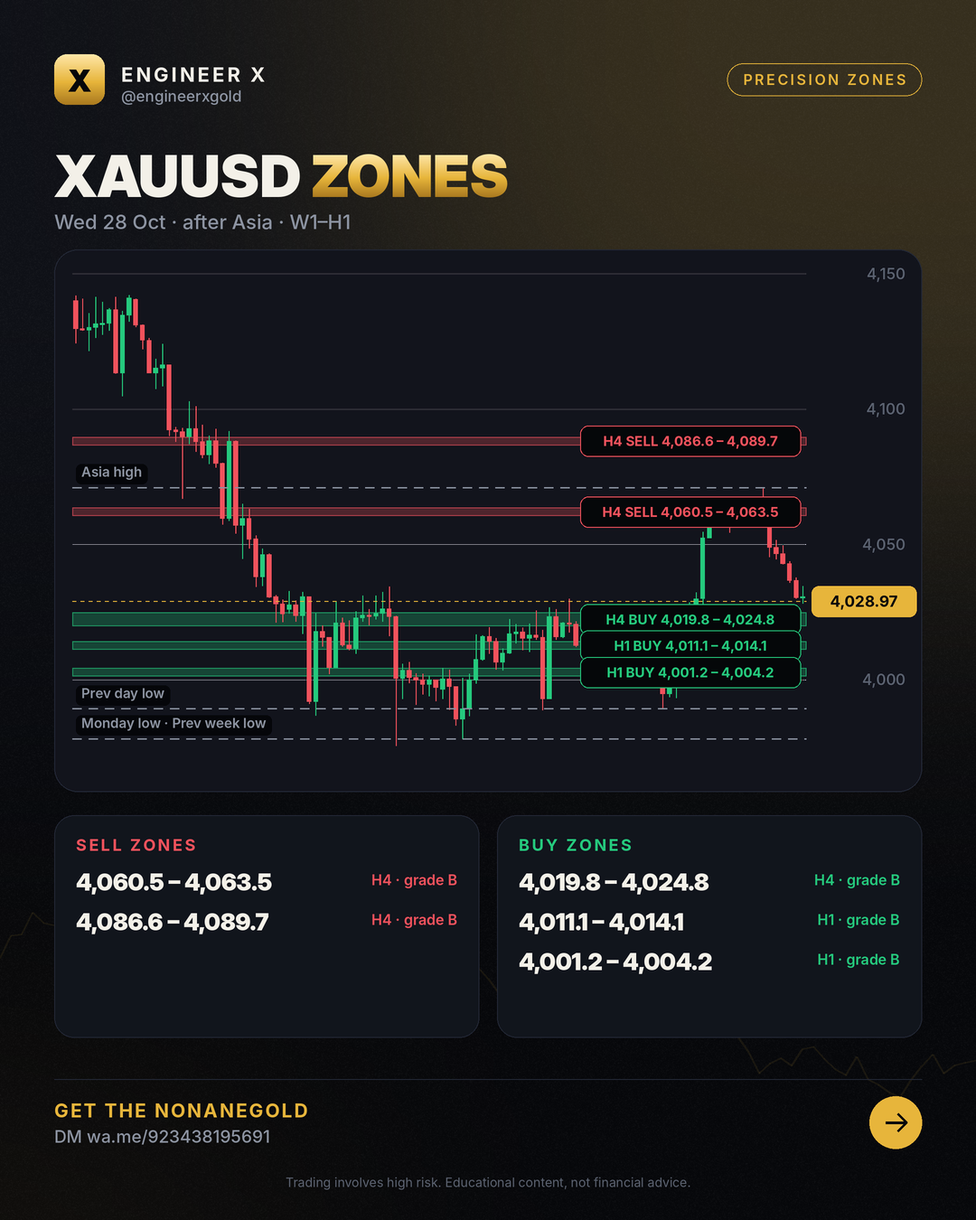
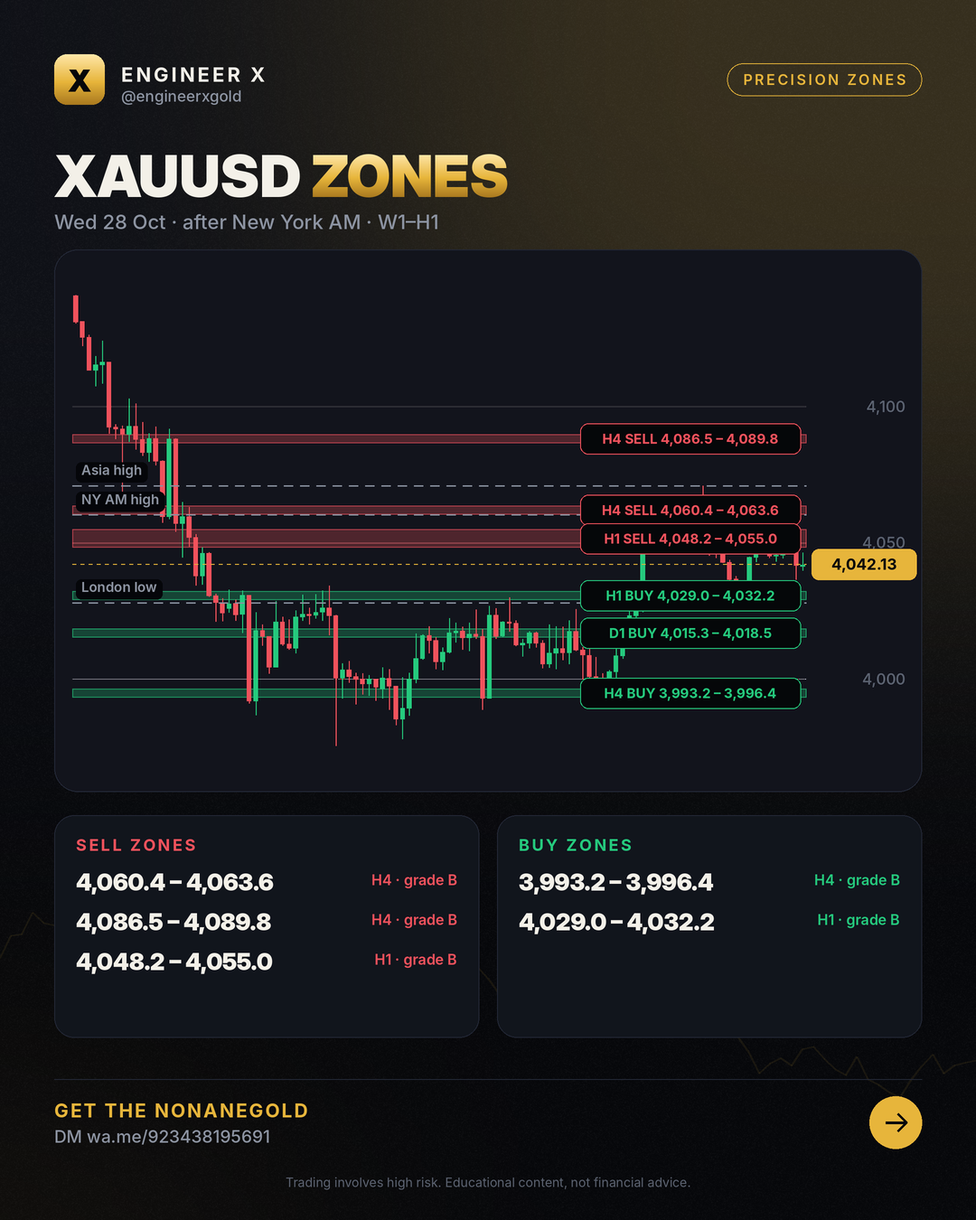
zones 2026-10-28 Wed 28 Oct · after New York AM · W1–H1

diff --git a/zones/index.html b/zones/index.html
@@ -4,7 +4,7 @@
 <meta charset="utf-8">
 <meta name="viewport" content="width=device-width,initial-scale=1">
 <title>XAUUSD Zones Today – Buy &amp; Sell Zones (H4, H1) | Engineer X</title>
-<meta name="description" content="XAUUSD buy and sell zones for 2026-10-28: tested W1, D1, H4 and H1 zones with invalidation levels, updated after the Asian, London and New York sessions. Price 4,028.97.">
+<meta name="description" content="XAUUSD buy and sell zones for 2026-10-28: tested W1, D1, H4 and H1 zones with invalidation levels, updated after the Asian, London and New York sessions. Price 4,042.13.">
 <meta name="robots" content="index,follow,max-image-preview:large,max-snippet:-1,max-video-preview:-1">
 <meta name="author" content="Engr. M Ahmad Mehmood">
 <link rel="canonical" href="https://engineerxgold.github.io/zones/">
@@ -12,7 +12,7 @@
 <link rel="apple-touch-icon" href="../img/logo.png">
 <meta property="og:site_name" content="Engineer X">
 <meta property="og:title" content="XAUUSD Zones Today – Buy &amp; Sell Zones (H4, H1) | Engineer X">
-<meta property="og:description" content="XAUUSD buy and sell zones for 2026-10-28: tested W1, D1, H4 and H1 zones with invalidation levels, updated after the Asian, London and New York sessions. Price 4,028.97.">
+<meta property="og:description" content="XAUUSD buy and sell zones for 2026-10-28: tested W1, D1, H4 and H1 zones with invalidation levels, updated after the Asian, London and New York sessions. Price 4,042.13.">
 <meta property="og:type" content="website">
 <meta property="og:url" content="https://engineerxgold.github.io/zones/">
 <meta property="og:image" content="https://engineerxgold.github.io/zones/img/2026-10-28.png">
@@ -22,7 +22,7 @@
 <meta property="og:locale" content="en_US">
 <meta name="twitter:card" content="summary_large_image">
 <meta name="twitter:title" content="XAUUSD Zones Today – Buy &amp; Sell Zones (H4, H1) | Engineer X">
-<meta name="twitter:description" content="XAUUSD buy and sell zones for 2026-10-28: tested W1, D1, H4 and H1 zones with invalidation levels, updated after the Asian, London and New York sessions. Price 4,028.97.">
+<meta name="twitter:description" content="XAUUSD buy and sell zones for 2026-10-28: tested W1, D1, H4 and H1 zones with invalidation levels, updated after the Asian, London and New York sessions. Price 4,042.13.">
 <meta name="twitter:image" content="https://engineerxgold.github.io/zones/img/2026-10-28.png">
 <meta name="twitter:image:alt" content="XAUUSD Zones Today – Buy &amp; Sell Zones (H4, H1) | Engineer X">
 
@@ -101,7 +101,7 @@ footer .fl a{color:var(--muted);margin-right:16px}
 <div class="wrap">
 <nav><a class="logo" href="../"><b>X</b>Engineer X</a>
 <div class="links"><a href="../zones/">Daily Zones</a><a href="../blog/">Learn</a><a href="../ea/">Gold EA</a><a href="../about/">About</a><a class="cta" href="https://wa.me/923438195691">Get the EA</a></div></nav>
-<section class="hero"><span class="chip">Updated Wed 28 Oct · after Asia · W1–H1</span><h1>XAUUSD <span class="gold">precision zones</span></h1><p>XAUUSD buy and sell zones for 2026-10-28: tested W1, D1, H4 and H1 zones with invalidation levels, updated after the Asian, London and New York sessions. Price 4,028.97.</p></section><img src="img/2026-10-28.png" alt="Latest XAUUSD zone map" width="1080" height="1350"><section><h2>Current zones</h2><div style="overflow-x:auto"><table style="width:100%;border-collapse:collapse;font-size:15px"><tr><th align=left>Zone</th><th align=left>Price band</th><th>Grade</th><th align=left>Invalid</th><th align=left>Why</th></tr><tr><td>H4 sell</td><td><b>4,060.49 – 4,063.53</b></td><td>B</td><td>above 4,064.55</td><td>MSNR resistance level (fresh): 4H A 4062.01. Wrong if price trades above 4064.55.</td></tr><tr><td>H4 sell</td><td><b>4,086.62 – 4,089.66</b></td><td>B</td><td>above 4,090.68</td><td>MSNR resistance level (fresh): 4H A 4088.14. Wrong if price trades above 4090.68.</td></tr><tr><td>H1 buy</td><td><b>4,011.05 – 4,014.09</b></td><td>B</td><td>below 4,010.03</td><td>MSNR support levels (fresh): 1H GAP 4012.57, 30m GAP 4012.57. Wrong if price trades below 4010.03.</td></tr><tr><td>H1 buy</td><td><b>4,001.20 – 4,004.24</b></td><td>B</td><td>below 4,000.18</td><td>MSNR support level (fresh): 1H GAP 4002.72. Wrong if price trades below 4000.18.</td></tr><tr><td>H4 buy</td><td><b>4,019.84 – 4,024.76</b></td><td>B</td><td>below 4,018.82</td><td>MSNR support levels (fresh): 4H GAP 4023.24, 1H GAP 4023.24, 30m V 4021.36, 15m V 4021.36. Wrong if price trades below 4018.82.</td></tr></table></div></section><section><h2>Honest scorecard</h2><div class="grid"><div class="card"><div class="n">176</div><p>zones published (30 days)</p></div><div class="card"><div class="n">92</div><p>held (moved 1 hourly ATR away)</p></div><div class="card"><div class="n">12</div><p>broke (traded beyond the invalidation)</p></div><div class="card"><div class="n">88%</div><p>hold rate of decided zones</p></div></div></section><div class="ctabox"><h3>🤖 Trade the zones with the NonaneGold</h3><p>Free signals group access + setup help Message us and we will help you set it up.</p><div class="btns"><a class="btn gold" href="https://wa.me/923438195691">Get the EA on Telegram</a><a class="btn ghost" href="../ea/">About the EA</a></div></div><section><h2>Archive</h2><div class="grid posts"><a class="card" href="2026-10-28/"><span class="date">2026-10-28</span><h3>XAUUSD zones 2026-10-28</h3></a><a class="card" href="2026-10-27/"><span class="date">2026-10-27</span><h3>XAUUSD zones 2026-10-27</h3></a><a class="card" href="2026-10-26/"><span class="date">2026-10-26</span><h3>XAUUSD zones 2026-10-26</h3></a><a class="card" href="2026-10-23/"><span class="date">2026-10-23</span><h3>XAUUSD zones 2026-10-23</h3></a><a class="card" href="2026-10-22/"><span class="date">2026-10-22</span><h3>XAUUSD zones 2026-10-22</h3></a><a class="card" href="2026-10-21/"><span class="date">2026-10-21</span><h3>XAUUSD zones 2026-10-21</h3></a><a class="card" href="2026-10-20/"><span class="date">2026-10-20</span><h3>XAUUSD zones 2026-10-20</h3></a><a class="card" href="2026-10-19/"><span class="date">2026-10-19</span><h3>XAUUSD zones 2026-10-19</h3></a><a class="card" href="2026-10-16/"><span class="date">2026-10-16</span><h3>XAUUSD zones 2026-10-16</h3></a><a class="card" href="2026-10-15/"><span class="date">2026-10-15</span><h3>XAUUSD zones 2026-10-15</h3></a><a class="card" href="2026-10-14/"><span class="date">2026-10-14</span><h3>XAUUSD zones 2026-10-14</h3></a><a class="card" href="2026-10-13/"><span class="date">2026-10-13</span><h3>XAUUSD zones 2026-10-13</h3></a></div></section>
+<section class="hero"><span class="chip">Updated Wed 28 Oct · after New York AM · W1–H1</span><h1>XAUUSD <span class="gold">precision zones</span></h1><p>XAUUSD buy and sell zones for 2026-10-28: tested W1, D1, H4 and H1 zones with invalidation levels, updated after the Asian, London and New York sessions. Price 4,042.13.</p></section><img src="img/2026-10-28.png" alt="Latest XAUUSD zone map" width="1080" height="1350"><section><h2>Current zones</h2><div style="overflow-x:auto"><table style="width:100%;border-collapse:collapse;font-size:15px"><tr><th align=left>Zone</th><th align=left>Price band</th><th>Grade</th><th align=left>Invalid</th><th align=left>Why</th></tr><tr><td>H4 sell</td><td><b>4,060.40 – 4,063.62</b></td><td>B</td><td>above 4,064.69</td><td>MSNR resistance levels (fresh): 4H A 4062.01, 1H GAP 4062.01, 30m A 4062.01. Wrong if price trades above 4064.69.</td></tr><tr><td>H4 sell</td><td><b>4,086.53 – 4,089.75</b></td><td>B</td><td>above 4,090.82</td><td>MSNR resistance level (fresh): 4H A 4088.14. Wrong if price trades above 4090.82.</td></tr><tr><td>H1 sell</td><td><b>4,048.23 – 4,054.97</b></td><td>B</td><td>above 4,056.04</td><td>MSNR resistance levels (fresh): 1H GAP 4049.84, 1H A 4053.36, 30m GAP 4049.84, 30m GAP 4051.82, 30m GAP 4053.36, 15m GAP 4049.84. Wrong if price trades above 40</td></tr><tr><td>H1 buy</td><td><b>4,029.03 – 4,032.25</b></td><td>B</td><td>below 4,027.96</td><td>MSNR support levels (fresh): 1H GAP 4030.64, 30m V 4030.64, 15m V 4030.64. Wrong if price trades below 4027.96.</td></tr><tr><td>H4 buy</td><td><b>3,993.21 – 3,996.43</b></td><td>B</td><td>below 3,992.14</td><td>MSNR support level (fresh): 4H V 3994.82. Wrong if price trades below 3992.14.</td></tr><tr><td>D1 buy</td><td><b>4,015.30 – 4,018.52</b></td><td>B</td><td>below 4,014.23</td><td>MSNR support level (fresh): D GAP 4016.91. Wrong if price trades below 4014.23.</td></tr></table></div></section><section><h2>Honest scorecard</h2><div class="grid"><div class="card"><div class="n">182</div><p>zones published (30 days)</p></div><div class="card"><div class="n">92</div><p>held (moved 1 hourly ATR away)</p></div><div class="card"><div class="n">13</div><p>broke (traded beyond the invalidation)</p></div><div class="card"><div class="n">88%</div><p>hold rate of decided zones</p></div></div></section><div class="ctabox"><h3>🤖 Trade the zones with the NonaneGold</h3><p>Free signals group access + setup help Message us and we will help you set it up.</p><div class="btns"><a class="btn gold" href="https://wa.me/923438195691">Get the EA on Telegram</a><a class="btn ghost" href="../ea/">About the EA</a></div></div><section><h2>Archive</h2><div class="grid posts"><a class="card" href="2026-10-28/"><span class="date">2026-10-28</span><h3>XAUUSD zones 2026-10-28</h3></a><a class="card" href="2026-10-27/"><span class="date">2026-10-27</span><h3>XAUUSD zones 2026-10-27</h3></a><a class="card" href="2026-10-26/"><span class="date">2026-10-26</span><h3>XAUUSD zones 2026-10-26</h3></a><a class="card" href="2026-10-23/"><span class="date">2026-10-23</span><h3>XAUUSD zones 2026-10-23</h3></a><a class="card" href="2026-10-22/"><span class="date">2026-10-22</span><h3>XAUUSD zones 2026-10-22</h3></a><a class="card" href="2026-10-21/"><span class="date">2026-10-21</span><h3>XAUUSD zones 2026-10-21</h3></a><a class="card" href="2026-10-20/"><span class="date">2026-10-20</span><h3>XAUUSD zones 2026-10-20</h3></a><a class="card" href="2026-10-19/"><span class="date">2026-10-19</span><h3>XAUUSD zones 2026-10-19</h3></a><a class="card" href="2026-10-16/"><span class="date">2026-10-16</span><h3>XAUUSD zones 2026-10-16</h3></a><a class="card" href="2026-10-15/"><span class="date">2026-10-15</span><h3>XAUUSD zones 2026-10-15</h3></a><a class="card" href="2026-10-14/"><span class="date">2026-10-14</span><h3>XAUUSD zones 2026-10-14</h3></a><a class="card" href="2026-10-13/"><span class="date">2026-10-13</span><h3>XAUUSD zones 2026-10-13</h3></a></div></section>
 <footer>
 <div class="warn"><b>Risk warning:</b> Trading gold, forex and CFDs carries a high risk of losing money and is not suitable for everyone. Past results do not guarantee future results. Everything on this site is educational and not financial advice. We are an introducing partner of our broker and may earn a commission on accounts opened through our link.</div>
 <p class="fl" style="margin-top:18px"><a href="../about/">About &amp; methodology</a><a href="../privacy.html">Privacy</a><a href="../terms.html">Terms &amp; risk disclosure</a><a href="../feed.xml">RSS</a><a href="https://t.me/engineerxgold">Telegram</a></p>

diff --git a/zones/2026-10-28/index.html b/zones/2026-10-28/index.html
@@ -4,7 +4,7 @@
 <meta charset="utf-8">
 <meta name="viewport" content="width=device-width,initial-scale=1">
 <title>Gold Support Resistance – 28 Oct 2026 (W1–H1)</title>
-<meta name="description" content="XAUUSD buy and sell zones for 2026-10-28: tested W1, D1, H4 and H1 zones with invalidation levels, updated after the Asian, London and New York sessions. Price 4,028.97.">
+<meta name="description" content="XAUUSD buy and sell zones for 2026-10-28: tested W1, D1, H4 and H1 zones with invalidation levels, updated after the Asian, London and New York sessions. Price 4,042.13.">
 <meta name="robots" content="index,follow,max-image-preview:large,max-snippet:-1,max-video-preview:-1">
 <meta name="author" content="Engr. M Ahmad Mehmood">
 <link rel="canonical" href="https://engineerxgold.github.io/zones/2026-10-28/">
@@ -12,7 +12,7 @@
 <link rel="apple-touch-icon" href="../../img/logo.png">
 <meta property="og:site_name" content="Engineer X">
 <meta property="og:title" content="Gold Support Resistance – 28 Oct 2026 (W1–H1)">
-<meta property="og:description" content="XAUUSD buy and sell zones for 2026-10-28: tested W1, D1, H4 and H1 zones with invalidation levels, updated after the Asian, London and New York sessions. Price 4,028.97.">
+<meta property="og:description" content="XAUUSD buy and sell zones for 2026-10-28: tested W1, D1, H4 and H1 zones with invalidation levels, updated after the Asian, London and New York sessions. Price 4,042.13.">
 <meta property="og:type" content="article">
 <meta property="og:url" content="https://engineerxgold.github.io/zones/2026-10-28/">
 <meta property="og:image" content="https://engineerxgold.github.io/zones/img/2026-10-28.png">
@@ -22,7 +22,7 @@
 <meta property="og:locale" content="en_US">
 <meta name="twitter:card" content="summary_large_image">
 <meta name="twitter:title" content="Gold Support Resistance – 28 Oct 2026 (W1–H1)">
-<meta name="twitter:description" content="XAUUSD buy and sell zones for 2026-10-28: tested W1, D1, H4 and H1 zones with invalidation levels, updated after the Asian, London and New York sessions. Price 4,028.97.">
+<meta name="twitter:description" content="XAUUSD buy and sell zones for 2026-10-28: tested W1, D1, H4 and H1 zones with invalidation levels, updated after the Asian, London and New York sessions. Price 4,042.13.">
 <meta name="twitter:image" content="https://engineerxgold.github.io/zones/img/2026-10-28.png">
 <meta name="twitter:image:alt" content="Gold Support Resistance – 28 Oct 2026 (W1–H1)">
 
@@ -32,7 +32,7 @@
 <link rel="preconnect" href="https://fonts.googleapis.com">
 <link rel="preconnect" href="https://fonts.gstatic.com" crossorigin>
 <link href="https://fonts.googleapis.com/css2?family=Inter:wght@400;500;600;800;900&display=swap" rel="stylesheet">
-<script type="application/ld+json">{"@context": "https://schema.org", "@type": "Organization", "@id": "https://engineerxgold.github.io/#organization", "name": "Engineer X", "url": "https://engineerxgold.github.io/", "logo": {"@type": "ImageObject", "url": "https://engineerxgold.github.io/img/logo.png", "width": 512, "height": 512}, "sameAs": ["https://t.me/engineerxgold"]}</script><script type="application/ld+json">{"@context": "https://schema.org", "@type": "Article", "headline": "Gold Support Resistance – 28 Oct 2026 (W1–H1)", "datePublished": "2026-10-28T08:00:00+05:00", "dateModified": "2026-10-28T12:04:50+05:00", "author": {"@type": "Person", "@id": "https://engineerxgold.github.io/about/#author", "name": "Engr. M Ahmad Mehmood", "url": "https://engineerxgold.github.io/about/", "jobTitle": "MQL5 Expert Advisor developer and gold market analyst", "worksFor": {"@id": "https://engineerxgold.github.io/#organization"}}, "publisher": {"@id": "https://engineerxgold.github.io/#organization"}, "image": "https://engineerxgold.github.io/zones/img/2026-10-28.png", "mainEntityOfPage": "https://engineerxgold.github.io/zones/2026-10-28/"}</script>
+<script type="application/ld+json">{"@context": "https://schema.org", "@type": "Organization", "@id": "https://engineerxgold.github.io/#organization", "name": "Engineer X", "url": "https://engineerxgold.github.io/", "logo": {"@type": "ImageObject", "url": "https://engineerxgold.github.io/img/logo.png", "width": 512, "height": 512}, "sameAs": ["https://t.me/engineerxgold"]}</script><script type="application/ld+json">{"@context": "https://schema.org", "@type": "Article", "headline": "Gold Support Resistance – 28 Oct 2026 (W1–H1)", "datePublished": "2026-10-28T08:00:00+05:00", "dateModified": "2026-10-28T21:04:32+05:00", "author": {"@type": "Person", "@id": "https://engineerxgold.github.io/about/#author", "name": "Engr. M Ahmad Mehmood", "url": "https://engineerxgold.github.io/about/", "jobTitle": "MQL5 Expert Advisor developer and gold market analyst", "worksFor": {"@id": "https://engineerxgold.github.io/#organization"}}, "publisher": {"@id": "https://engineerxgold.github.io/#organization"}, "image": "https://engineerxgold.github.io/zones/img/2026-10-28.png", "mainEntityOfPage": "https://engineerxgold.github.io/zones/2026-10-28/"}</script>
 
 <style>
 :root{--gold:#E7B53B;--gold-hi:#FFE7A8;--bg:#07080B;--bg2:#0E1016;--panel:#12151D;--line:#232836;--green:#25C97D;--red:#F0525C;--text:#F3F0E8;--muted:#8C93A1}
@@ -101,7 +101,7 @@ footer .fl a{color:var(--muted);margin-right:16px}
 <div class="wrap">
 <nav><a class="logo" href="../../"><b>X</b>Engineer X</a>
 <div class="links"><a href="../../zones/">Daily Zones</a><a href="../../blog/">Learn</a><a href="../../ea/">Gold EA</a><a href="../../about/">About</a><a class="cta" href="https://wa.me/923438195691">Get the EA</a></div></nav>
-<article><p class="crumbs"><a href="../../">Home</a> › <a href="../">Zones</a> › 2026-10-28</p><h1>Gold Support Resistance – 28 Oct 2026 (W1–H1)</h1><p class="byline">Wed 28 Oct · after Asia · W1–H1 · by Engr. M Ahmad Mehmood</p><img src="../img/2026-10-28.png" alt="XAUUSD zone map 2026-10-28" width="1080" height="1350" loading="eager"><h2>Zones</h2><div style="overflow-x:auto"><table style="width:100%;border-collapse:collapse;font-size:15px"><tr><th align=left>Zone</th><th align=left>Price band</th><th>Grade</th><th align=left>Invalid</th><th align=left>Why</th></tr><tr><td>H4 sell</td><td><b>4,060.49 – 4,063.53</b></td><td>B</td><td>above 4,064.55</td><td>MSNR resistance level (fresh): 4H A 4062.01. Wrong if price trades above 4064.55.</td></tr><tr><td>H4 sell</td><td><b>4,086.62 – 4,089.66</b></td><td>B</td><td>above 4,090.68</td><td>MSNR resistance level (fresh): 4H A 4088.14. Wrong if price trades above 4090.68.</td></tr><tr><td>H1 buy</td><td><b>4,011.05 – 4,014.09</b></td><td>B</td><td>below 4,010.03</td><td>MSNR support levels (fresh): 1H GAP 4012.57, 30m GAP 4012.57. Wrong if price trades below 4010.03.</td></tr><tr><td>H1 buy</td><td><b>4,001.20 – 4,004.24</b></td><td>B</td><td>below 4,000.18</td><td>MSNR support level (fresh): 1H GAP 4002.72. Wrong if price trades below 4000.18.</td></tr><tr><td>H4 buy</td><td><b>4,019.84 – 4,024.76</b></td><td>B</td><td>below 4,018.82</td><td>MSNR support levels (fresh): 4H GAP 4023.24, 1H GAP 4023.24, 30m V 4021.36, 15m V 4021.36. Wrong if price trades below 4018.82.</td></tr></table></div><h2>How to read this map</h2><p>Bands are where price is expected to react; they are not entries. Trading beyond the invalidation price ends the zone; each zone counts once (first touch). Highs and lows listed as liquidity are targets: on 10 years of gold price ran through them more often than through random levels.</p><div class="ctabox"><h3>🤖 Trade the zones with the NonaneGold</h3><p>Free signals group access + setup help Message us and we will help you set it up.</p><div class="btns"><a class="btn gold" href="https://wa.me/923438195691">Get the EA on Telegram</a><a class="btn ghost" href="../../ea/">About the EA</a></div></div></article>
+<article><p class="crumbs"><a href="../../">Home</a> › <a href="../">Zones</a> › 2026-10-28</p><h1>Gold Support Resistance – 28 Oct 2026 (W1–H1)</h1><p class="byline">Wed 28 Oct · after New York AM · W1–H1 · by Engr. M Ahmad Mehmood</p><img src="../img/2026-10-28.png" alt="XAUUSD zone map 2026-10-28" width="1080" height="1350" loading="eager"><h2>Zones</h2><div style="overflow-x:auto"><table style="width:100%;border-collapse:collapse;font-size:15px"><tr><th align=left>Zone</th><th align=left>Price band</th><th>Grade</th><th align=left>Invalid</th><th align=left>Why</th></tr><tr><td>H4 sell</td><td><b>4,060.40 – 4,063.62</b></td><td>B</td><td>above 4,064.69</td><td>MSNR resistance levels (fresh): 4H A 4062.01, 1H GAP 4062.01, 30m A 4062.01. Wrong if price trades above 4064.69.</td></tr><tr><td>H4 sell</td><td><b>4,086.53 – 4,089.75</b></td><td>B</td><td>above 4,090.82</td><td>MSNR resistance level (fresh): 4H A 4088.14. Wrong if price trades above 4090.82.</td></tr><tr><td>H1 sell</td><td><b>4,048.23 – 4,054.97</b></td><td>B</td><td>above 4,056.04</td><td>MSNR resistance levels (fresh): 1H GAP 4049.84, 1H A 4053.36, 30m GAP 4049.84, 30m GAP 4051.82, 30m GAP 4053.36, 15m GAP 4049.84. Wrong if price trades above 40</td></tr><tr><td>H1 buy</td><td><b>4,029.03 – 4,032.25</b></td><td>B</td><td>below 4,027.96</td><td>MSNR support levels (fresh): 1H GAP 4030.64, 30m V 4030.64, 15m V 4030.64. Wrong if price trades below 4027.96.</td></tr><tr><td>H4 buy</td><td><b>3,993.21 – 3,996.43</b></td><td>B</td><td>below 3,992.14</td><td>MSNR support level (fresh): 4H V 3994.82. Wrong if price trades below 3992.14.</td></tr><tr><td>D1 buy</td><td><b>4,015.30 – 4,018.52</b></td><td>B</td><td>below 4,014.23</td><td>MSNR support level (fresh): D GAP 4016.91. Wrong if price trades below 4014.23.</td></tr></table></div><h2>How to read this map</h2><p>Bands are where price is expected to react; they are not entries. Trading beyond the invalidation price ends the zone; each zone counts once (first touch). Highs and lows listed as liquidity are targets: on 10 years of gold price ran through them more often than through random levels.</p><div class="ctabox"><h3>🤖 Trade the zones with the NonaneGold</h3><p>Free signals group access + setup help Message us and we will help you set it up.</p><div class="btns"><a class="btn gold" href="https://wa.me/923438195691">Get the EA on Telegram</a><a class="btn ghost" href="../../ea/">About the EA</a></div></div></article>
 <footer>
 <div class="warn"><b>Risk warning:</b> Trading gold, forex and CFDs carries a high risk of losing money and is not suitable for everyone. Past results do not guarantee future results. Everything on this site is educational and not financial advice. We are an introducing partner of our broker and may earn a commission on accounts opened through our link.</div>
 <p class="fl" style="margin-top:18px"><a href="../../about/">About &amp; methodology</a><a href="../../privacy.html">Privacy</a><a href="../../terms.html">Terms &amp; risk disclosure</a><a href="../../feed.xml">RSS</a><a href="https://t.me/engineerxgold">Telegram</a></p>

diff --git a/index.html b/index.html
@@ -101,7 +101,7 @@ footer .fl a{color:var(--muted);margin-right:16px}
 <div class="wrap">
 <nav><a class="logo" href="./"><b>X</b>Engineer X</a>
 <div class="links"><a href="./zones/">Daily Zones</a><a href="./blog/">Learn</a><a href="./ea/">Gold EA</a><a href="./about/">About</a><a class="cta" href="https://wa.me/923438195691">Get the EA</a></div></nav>
-<section class="hero"><span class="chip">XAUUSD · W1–H1 · every session</span><h1>Gold <span class="gold">precision zones</span>, updated after every session</h1><p>Tested buy and sell zones with clear invalidation, a scorecard of every result, and the NonaneGold for traders who want it automated.</p><div class="btns"><a class="btn gold" href="zones/">See today's zones</a><a class="btn ghost" href="https://wa.me/923438195691">Get the EA</a></div></section><section><h2>Latest map Wed 28 Oct · after Asia · W1–H1</h2><img src="zones/img/2026-10-28.png" alt="Latest XAUUSD zones" width="1080" height="1350"></section><div class="ctabox"><h3>🤖 Trade the zones with the NonaneGold</h3><p>Free signals group access + setup help Message us and we will help you set it up.</p><div class="btns"><a class="btn gold" href="https://wa.me/923438195691">Get the EA on Telegram</a><a class="btn ghost" href="ea/">About the EA</a></div></div><section><h2>Learn</h2><div class="grid posts"><a class="card" href="blog/gold-trading-analyzing-today-s-zones-liquidity/"><span class="date">2026-10-28</span><h3>Gold Trading: Analyzing Today&#x27;s Zones &amp; Liquidity</h3></a><a class="card" href="blog/xauusd-analysis-key-gold-trading-zones-liquidity/"><span class="date">2026-10-27</span><h3>XAUUSD Analysis: Key Gold Trading Zones &amp; Liquidity</h3></a><a class="card" href="blog/gold-supply-and-demand-zones-for-xauusd-traders/"><span class="date">2026-10-26</span><h3>Gold supply and demand zones for XAUUSD traders</h3></a><a class="card" href="blog/xauusd-price-navigating-key-zones-and-liquidity/"><span class="date">2026-10-24</span><h3>xauusd price: Navigating Key Zones and Liquidity</h3></a><a class="card" href="blog/gold-supply-and-demand-zones-h4-trend-map/"><span class="date">2026-10-23</span><h3>Gold Supply and Demand Zones: H4 Trend Map</h3></a><a class="card" href="blog/gold-forecast-critical-h4-bearish-zones-liquidity/"><span class="date">2026-10-21</span><h3>Gold Forecast: Critical H4 Bearish Zones &amp; Liquidity</h3></a></div></section><section><h2>FAQ</h2><details><summary>What is a precision zone?</summary><p>A point of interest from a trading book (OTE 0.705, balanced price range, weekly close level, daily order block) that held better than random levels on 10 years of gold. Each zone has an invalidation price.</p></details><details><summary>How often are the zones updated?</summary><p>A daily plan at the Asian open, then after the Asian, London and New York sessions.</p></details><details><summary>Are these trade signals?</summary><p>No. Zones are areas to watch. Wait for your own confirmation and manage risk.</p></details><details><summary>How do I get the Gold EA?</summary><p>Message us on Telegram or WhatsApp; we answer and help with the setup.</p></details></section>
+<section class="hero"><span class="chip">XAUUSD · W1–H1 · every session</span><h1>Gold <span class="gold">precision zones</span>, updated after every session</h1><p>Tested buy and sell zones with clear invalidation, a scorecard of every result, and the NonaneGold for traders who want it automated.</p><div class="btns"><a class="btn gold" href="zones/">See today's zones</a><a class="btn ghost" href="https://wa.me/923438195691">Get the EA</a></div></section><section><h2>Latest map Wed 28 Oct · after New York AM · W1–H1</h2><img src="zones/img/2026-10-28.png" alt="Latest XAUUSD zones" width="1080" height="1350"></section><div class="ctabox"><h3>🤖 Trade the zones with the NonaneGold</h3><p>Free signals group access + setup help Message us and we will help you set it up.</p><div class="btns"><a class="btn gold" href="https://wa.me/923438195691">Get the EA on Telegram</a><a class="btn ghost" href="ea/">About the EA</a></div></div><section><h2>Learn</h2><div class="grid posts"><a class="card" href="blog/gold-trading-analyzing-today-s-zones-liquidity/"><span class="date">2026-10-28</span><h3>Gold Trading: Analyzing Today&#x27;s Zones &amp; Liquidity</h3></a><a class="card" href="blog/xauusd-analysis-key-gold-trading-zones-liquidity/"><span class="date">2026-10-27</span><h3>XAUUSD Analysis: Key Gold Trading Zones &amp; Liquidity</h3></a><a class="card" href="blog/gold-supply-and-demand-zones-for-xauusd-traders/"><span class="date">2026-10-26</span><h3>Gold supply and demand zones for XAUUSD traders</h3></a><a class="card" href="blog/xauusd-price-navigating-key-zones-and-liquidity/"><span class="date">2026-10-24</span><h3>xauusd price: Navigating Key Zones and Liquidity</h3></a><a class="card" href="blog/gold-supply-and-demand-zones-h4-trend-map/"><span class="date">2026-10-23</span><h3>Gold Supply and Demand Zones: H4 Trend Map</h3></a><a class="card" href="blog/gold-forecast-critical-h4-bearish-zones-liquidity/"><span class="date">2026-10-21</span><h3>Gold Forecast: Critical H4 Bearish Zones &amp; Liquidity</h3></a></div></section><section><h2>FAQ</h2><details><summary>What is a precision zone?</summary><p>A point of interest from a trading book (OTE 0.705, balanced price range, weekly close level, daily order block) that held better than random levels on 10 years of gold. Each zone has an invalidation price.</p></details><details><summary>How often are the zones updated?</summary><p>A daily plan at the Asian open, then after the Asian, London and New York sessions.</p></details><details><summary>Are these trade signals?</summary><p>No. Zones are areas to watch. Wait for your own confirmation and manage risk.</p></details><details><summary>How do I get the Gold EA?</summary><p>Message us on Telegram or WhatsApp; we answer and help with the setup.</p></details></section>
 <footer>
 <div class="warn"><b>Risk warning:</b> Trading gold, forex and CFDs carries a high risk of losing money and is not suitable for everyone. Past results do not guarantee future results. Everything on this site is educational and not financial advice. We are an introducing partner of our broker and may earn a commission on accounts opened through our link.</div>
 <p class="fl" style="margin-top:18px"><a href="./about/">About &amp; methodology</a><a href="./privacy.html">Privacy</a><a href="./terms.html">Terms &amp; risk disclosure</a><a href="./feed.xml">RSS</a><a href="https://t.me/engineerxgold">Telegram</a></p>
